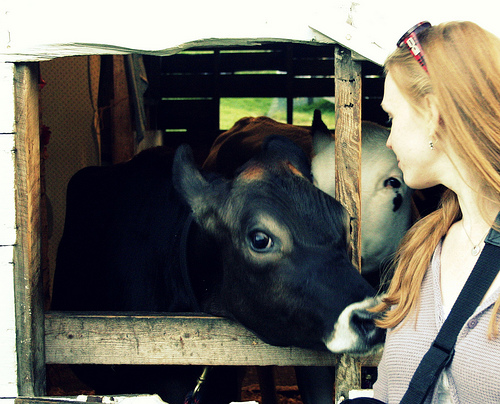
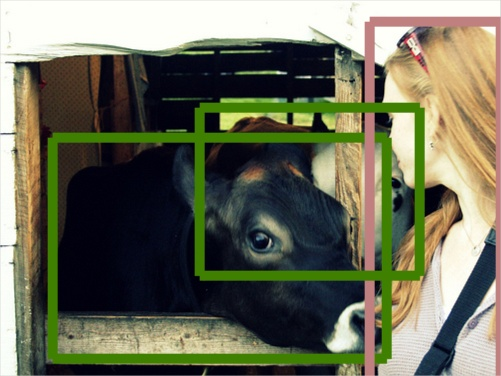
add related work, modify bbox figure and table

diff --git a/paper/icml15/results.tex b/paper/icml15/results.tex
@@ -1,5 +1,5 @@
 \section{Experimental Evaluation}
-\paragraph{Dataset} Our proposed models are evaluated on the PASCAL VOC 2012 segmentation benchmark \citep{everingham2014pascal}, consisting of 20 foreground object classes and one background class. The performance is measured in terms of pixel intersection-over-union (IOU) averaged across the 21 classes. The original PASCAL VOC 2012 dataset contains $1,464$, $1,449$, and $1,456$ images for training, validation, and test, respectively. We use the extra annotations provided by \citet{hariharan2011semantic}, resulting in $10,582$ training images. We also take use of the abundant annotations provided by the MS-COCO dataset \citep{lin2014microsoft}, which contains $123,287$ images in the trainval set. MS-COCO dataset currently has $80$ foreground object classes and one background class.
+\paragraph{Dataset} Our proposed models are evaluated on the PASCAL VOC 2012 segmentation benchmark \citep{everingham2014pascal}, consisting of 20 foreground object classes and one background class. The performance is measured in terms of pixel intersection-over-union (IOU) averaged across the 21 classes. The original PASCAL VOC 2012 dataset contains $1464$, $1449$, and $1456$ images for training, validation, and test, respectively. We use the extra annotations provided by \citet{hariharan2011semantic}, resulting in $10,582$ training images. We also take use of the abundant annotations provided by the MS-COCO dataset \citep{lin2014microsoft}, which contains $123,287$ images in the trainval set. MS-COCO dataset currently has $80$ foreground object classes and one background class.
 
 \paragraph{Training} Our proposed models are built on top of the ``DeepLab'' and ``DeepLab-CRF'' models proposed by \citep{chen2014semantic}, which is composed of two main components: DCNN and Dense Conditional Random Field (DenseCRF) \citep{krahenbuhl2011efficient}. Similarly, we adopt piecewise training, decoupling the DCNN and CRF training stages, assuming the unary terms provided by the DCNN are fixed during CRF training. 
 
@@ -60,7 +60,7 @@ The evaluations of our proposed models are mainly conducted on the PASCAL offici
     \includegraphics[width=0.21\linewidth]{fig/erode_bbox/gt/2009_002382.png} & 
     \includegraphics[width=0.21\linewidth]{fig/erode_bbox/bbox/2009_002382.png} & 
     \includegraphics[width=0.21\linewidth]{fig/erode_bbox/crf/2009_002382.png} \\    
-    {\scriptsize Image} & {\scriptsize Ground-Truth} & {\scriptsize Bbox-Baseline} & {\scriptsize Bbox-DenseCRF}
+    {\scriptsize Image with Bbox} & {\scriptsize Ground-Truth} & {\scriptsize Bbox-Baseline} & {\scriptsize Bbox-DenseCRF}
   \end{tabular}
   \caption{{\bf Segmentation estimation for bounding box annotations.} We show three examples from easy to hard.}
   \label{fig:bbox_illustration}
@@ -84,7 +84,13 @@ The evaluations of our proposed models are mainly conducted on the PASCAL offici
 \paragraph{Image Annotatins}
 \paragraph{Pixel+Image Annotations}
 
-\paragraph{Comparison with State-of-art} We herein compare our proposed models with other state-of-art methods in the context of weakly supervised learning. We list in Tab.~\ref{tab:weak_state_of_art_val} the comparable methods side-by-side. The methods proposed by \citet{pinheiro2014weakly} are prefixed by ``Idiap-''. Note that the method proposed by \citet{pathak2014fully} achieves $20.46\%$ on PASCAL VOC 2011 validation set (a subset of VOC 2012).
+\paragraph{Comparison with State-of-art} We herein compare our proposed models with other state-of-art methods in the context of weakly supervised learning. We list in Tab.~\ref{tab:weak_state_of_art_val} the comparable methods side-by-side. The methods proposed by \citet{pinheiro2014weakly} are prefixed by ``Idiap-''. Our proposed methods consistently outperformed their methods. Our DeepLab-Weak is comparable to their Idiap-base, which are trained with only weak labels. Image-Level-Prior (ILP) is incorporated into their base model, similar to our DeepLab-Adaweak which dynamically weights DCNN score maps w.r.t. weak labels. To smooth the prediction results, they proposed to use (1) superpixels (denoted as sppxl) or (2) region proposals (denoted as seg). The superpixel smoothing is similar to the Dense CRF we employed, both trying to model the long-range correlation between pixels. The region proposal algorithm (MCG \citep{arbelaez2014multiscale}) they employed are elaborate smoothing method, which has been trained on thousands of fully annotated images. On the other hand, our proposed method Deeplab-CRF-StrongWeak shows that our model can attain much better results by directly training the models with both strong and weak annotations.
+
+Note that the method proposed by \citet{pathak2014fully} achieves $20.46\%$ on PASCAL VOC 2011 validation set (a subset of VOC 2012).
+
+\paragraph{Training time} Fine-tuning our network on PASCAL VOC 2012 takes about 10
+hours on a NVIDIA Tesla K40 GPU. All our implementations are based on the public available source Caffe \citep{jia2014caffe}.
+
 
 \begin{table}
   \centering
@@ -94,14 +100,14 @@ The evaluations of our proposed models are mainly conducted on the PASCAL offici
     Idiap-base   & 17.8 \\
     DeepLab-Weak & 20.3 \\
     \hline \hline
-    Idiap-base+ILP & 32.6 \\
+    Idiap-base+ILP  & 32.6 \\
     DeepLab-Adaweak & 34.2 \\
     \hline \hline
     Idiap-base+ILP+sppxl & 36.6 \\
     DeepLab-CRF-Adaweak  & 38.2 \\
     \hline \hline
-    Idia-base+ILP+seg    & 42.0 \\
-    DeepLabe-CRF-StrongWeak & 61.9 \\
+    Idiap-base+ILP+seg       & 42.0 \\
+    DeepLab-CRF-StrongWeak   & 61.9 \\
     \hline
   \end{tabular}
   \label{tab:weak_state_of_art_val}
@@ -133,11 +139,11 @@ After setting the model choices on the validation set, we evaluate our variant m
     \hline
     9,582    &  1,000  & 56.79  & 60.48   \\
     \hline
-    9,118    &  1,464  & {\bf 58.30}  & {\bf 61.90}   \\
+      0      &  1,464  & 54.77  & 57.62   \\
     \hline
     5,000    &  1,464  & 57.02  & 60.48   \\
     \hline
-      0      &  1,464  & 54.77  & 57.62   \\
+    9,118    &  1,464  & {\bf 58.30}  & {\bf 61.90}   \\
     \hline
   \end{tabular}  
   }
@@ -250,7 +256,7 @@ After setting the model choices on the validation set, we evaluate our variant m
     \includegraphics[height=0.11\linewidth]{fig/val_crf_vis/bbox_crf/2007_001175.png} &
     \includegraphics[height=0.11\linewidth]{fig/val_crf_vis/strongweak/2007_001175.png} &
     \includegraphics[height=0.11\linewidth]{fig/val_crf_vis/cocomix/2007_001175.png} \\
-    Image & adaweak & bbox & bbox-crf & strongweak & cocomix \\
+    {\scriptsize Image} & {\scriptsize DeepLab-CRF-Adaweak} & {\scriptsize DeepLab-CRF-Bbox-Baseline} & {\scriptsize DeepLab-CRF-Bbox-DenseCRF} & {\scriptsize DeepLab-CRF-StrongWeak} & {\scriptsize DeepLab-CRF-COCO} \\
   \end{tabular}
   }
   %\vspace{-0.3cm}

diff --git a/paper/icml15/related.tex b/paper/icml15/related.tex
@@ -5,4 +5,4 @@ Training classifiers with only image-level labels for semantic image segmentatio
 
 Another form of weak supervision, bounding box annotations, has been utilized for semantic segmentation as well. \citet{xia2013semantic} generated segment hypotheses by CPMC \citep{carreira2012cpmc} within bounding boxes from object detectors, and graph-cut were employed to refine the final segment. \citet{guillaumin2014imagenet} proposed a recursive scheme to propagate segmentation by exploiting both image-level labels and bounding box annotations in ImageNet \citep{deng2009imagenet}. \citet{chen2014beat} attained human-level accuracy for car segmentation by taking use of 3D bounding boxes. \citet{zhu2014learning} proposed latent expectation loss Support Vector Machine to score the positiveness of region proposals within bounding boxes. On the other hand, bounding box annotations are common in the community of interactive segmentation \citep{lempitsky2009image, rother2004grabcut, WuMilcut}. In this work, we show that given bounding box annotations, our model is able to reach the accuracy with model trained by fully annotated images.
 
-From the aspect of weakly supervised learning, our work also bears similarity to several works. To name a few, \citet{oquab2014weakly} fine-tuned an ImageNet-pretrained DCNN on PASCAL VOC image classification task. Their method is able to localize objects without any strong supervision. \citet{Hoffman14Lsda} proposed to learn the adaptation from image classification to object detection for classes without bounding box annotations. \citet{cour2011learning} proposed a convex learning algorithm by extending multi-class loss functions to handle problems with partial labels, in which instance label is not available (but only a candidate set of labels).
+From the aspect of weakly supervised learning, our work also bears similarity to several works. To name a few, \citet{oquab2014weakly} fine-tuned an ImageNet-pretrained DCNN on PASCAL VOC image classification task. Their method is able to localize objects without any strong supervision. \citet{Hoffman14Lsda} proposed to learn the adaptation from image classification to object detection for classes without bounding box annotations. \citet{cour2011learning} proposed a convex learning algorithm by extending multi-class loss functions to handle problems with partial labels, in which instance label is not available (but only a candidate set of labels). \citet{Lu2013} proposed an EM algorithm to train a model with weak labels for tracking and identifying sports players.

diff --git a/paper/icml15/fig/script/bbox_crf_illustration.m b/paper/icml15/fig/script/bbox_crf_illustration.m
@@ -1,27 +1,31 @@
+clear all; close all;
+
 addpath('~/workspace/ext/export_fig');
 
 load('pascal_seg_colormap.mat');
 
-img_fn = '2010_002137';
+img_fn = '2009_002382';
 
 jpeg_folder = '~/dataset/PASCAL/VOCdevkit/VOC2012/JPEGImages';
-bbox_folder = '~/dataset/PASCAL/VOCdevkit/VOC2012/SegmentationClass';
+seg_cls_folder = '~/dataset/PASCAL/VOCdevkit/VOC2012/SegmentationClass';
+seg_ins_folder = '~/dataset/PASCAL/VOCdevkit/VOC2012/SegmentationObject';
 
 img   = imread(fullfile(jpeg_folder, [img_fn, '.jpg']));
-bbox = imread(fullfile(bbox_folder, [img_fn '.png']));
+seg_cls = imread(fullfile(seg_cls_folder, [img_fn '.png']));
+seg_ins = imread(fullfile(seg_ins_folder, [img_fn '.png']));
 
-labels = unique(bbox(:));
+[inst_label, ~, ~] = unique([seg_ins(:), seg_cls(:)], 'rows');
 
 figure(1), imshow(img), hold on;
 
-for i = 1 : length(labels)
-    label = labels(i);
+for i = 1 : size(inst_label, 1)
+    label = inst_label(i, 2);
     
     if label == 0 || label == 255
         continue;
     end
     
-    [row col] = find(bbox == label);
+    [row col] = find(seg_ins == i-1);
     
     min_row = min(row);
     max_row = max(row);
@@ -37,5 +41,5 @@ for i = 1 : length(labels)
     
 end
 
-fn = fullfile('..', 'bbox_crf_illustration.jpg');
+fn = fullfile('..', [img_fn '.jpg']);
 export_fig(fn);
